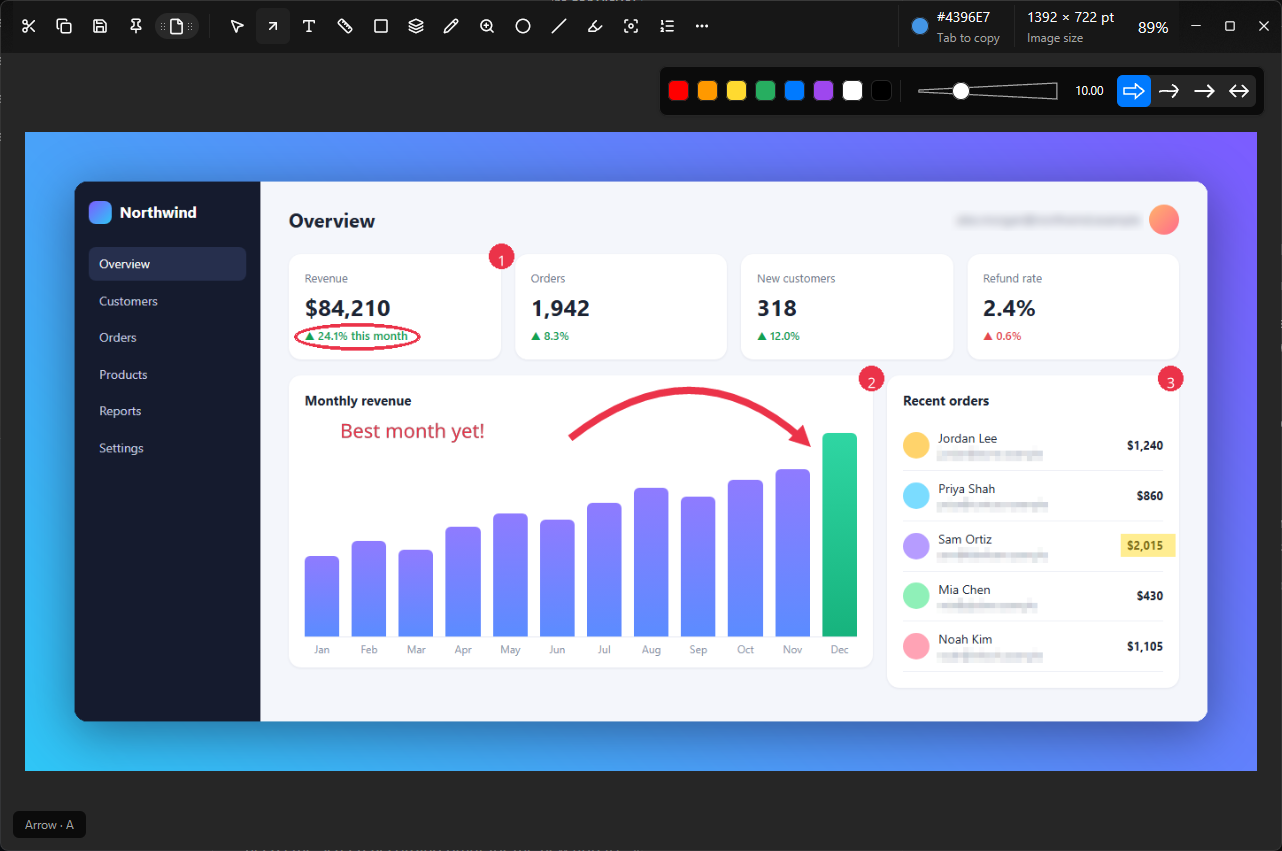
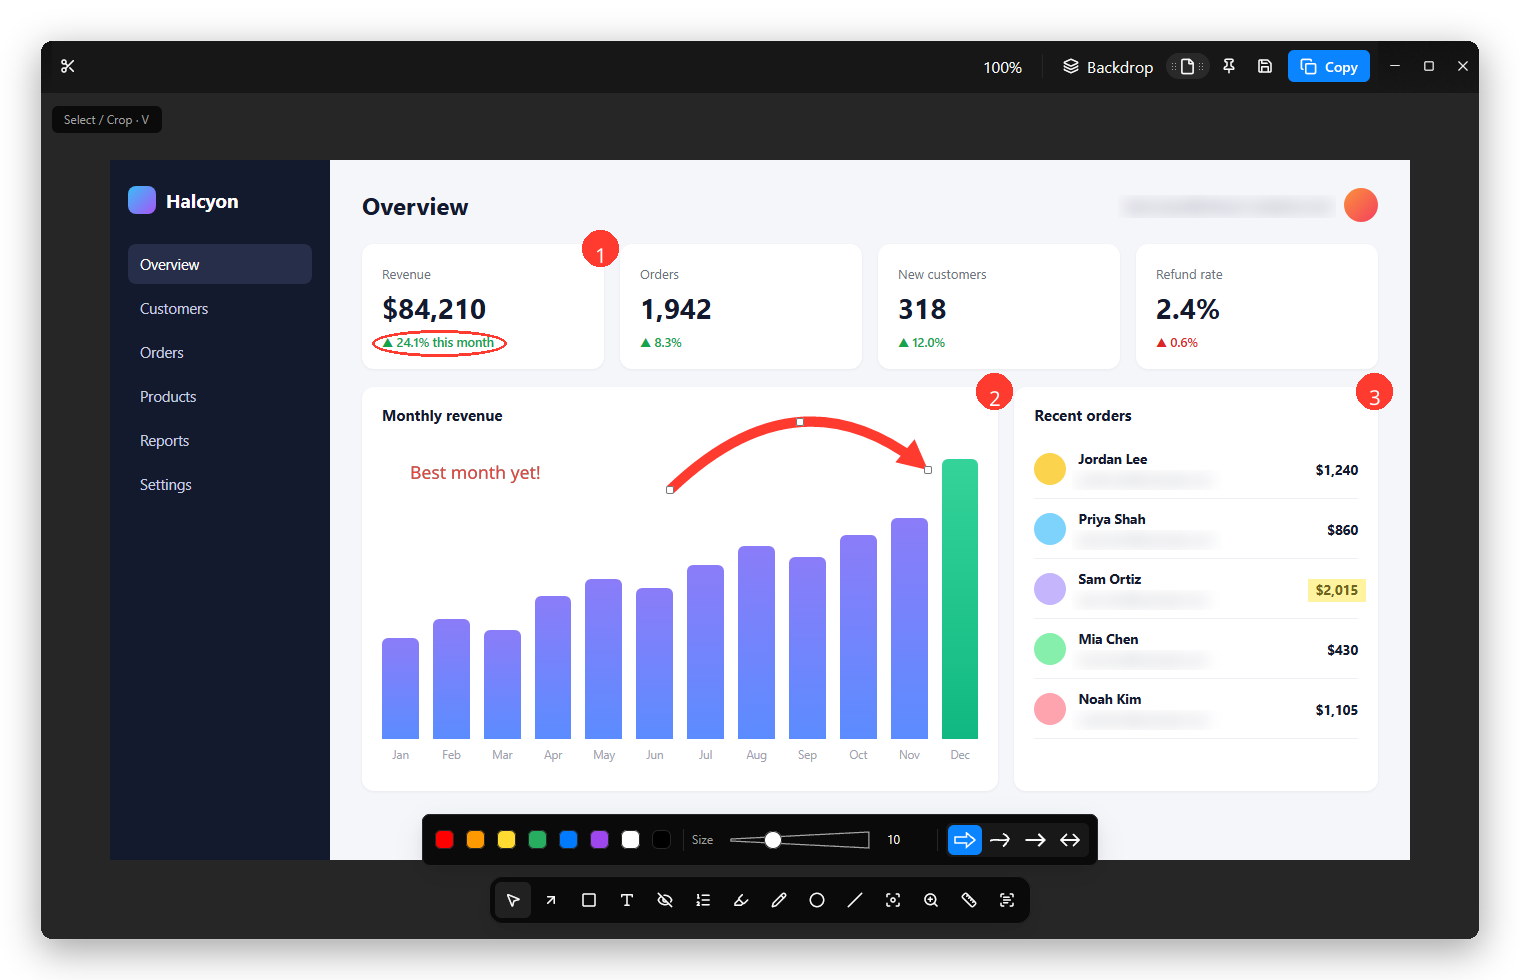
docs: make the README a home page with downloads and new screenshots (#4)
* docs: rewrite the README as the Sniplet home page with new screenshots

* docs: say when shortcuts work and how to open Sniplet before the first capture

---------

diff --git a/README.md b/README.md
@@ -1,136 +1,162 @@
 <div align="center">
 
-<img src="assets/icons/sniplet-128.png" width="96" alt="Sniplet icon">
+<img src="assets/icons/sniplet-256.png" width="112" alt="Sniplet icon">
 
 # Sniplet
 
-**Capture. Annotate. Copy.**
+### Capture it. Mark it up. Share it.
 
-A fast, native screenshot tool for Windows, macOS, and Linux, written in Rust.
-
-[![CI](https://github.com/m4tta/sniplet/actions/workflows/ci.yml/badge.svg)](https://github.com/m4tta/sniplet/actions/workflows/ci.yml)
-[![License](https://img.shields.io/badge/license-Apache--2.0-blue.svg)](LICENSE)
-![Platforms](https://img.shields.io/badge/platforms-Windows%20%7C%20macOS%20%7C%20Linux-8a63ff)
-![Built with Rust](https://img.shields.io/badge/built%20with-Rust-dea584?logo=rust)
+A fast, native screenshot tool for Windows, macOS, and Linux.<br>
+Free, open source, and written in Rust.
 
 <br>
 
-<img src="docs/screenshots/editor.png" width="860" alt="The Sniplet editor with an annotated dashboard screenshot and the arrow style palette open">
+[<img src="https://img.shields.io/badge/Download_for_Windows-0a84ff?style=for-the-badge" height="34" alt="Download for Windows">](https://github.com/m4tta/sniplet/releases/latest)&nbsp;
+[<img src="https://img.shields.io/badge/Download_for_macOS-0a84ff?style=for-the-badge" height="34" alt="Download for macOS">](https://github.com/m4tta/sniplet/releases/latest)&nbsp;
+[<img src="https://img.shields.io/badge/Download_for_Linux-0a84ff?style=for-the-badge" height="34" alt="Download for Linux">](https://github.com/m4tta/sniplet/releases/latest)
+
+<br>
+
+<img src="docs/screenshots/editor.png" alt="The Sniplet editor: a dashboard screenshot with a curved arrow, numbered steps, a highlight, and blurred emails. The arrow is selected and its color, size, and style controls float above the tool dock.">
 
 </div>
 
 <br>
 
-## What it does
+<table>
+<tr>
+<td width="33%" valign="top">
 
-Press a shortcut and drag across your screen. The capture opens in the editor,
-where you can mark it up and then copy, save, pin, or upload it.
+**⚡ Instant**<br>
+One shortcut freezes the screen. Drag across it, and the editor opens with your capture.
 
-| Feature        | What you can do                                                                       |
-| -------------- | ------------------------------------------------------------------------------------- |
-| **Capture**    | Area, full screen, a single window, scrolling pages, or the last area again           |
-| **Annotate**   | Arrows, text, shapes, numbered steps, highlights, spotlight, magnifier, and freehand  |
-| **Hide**       | Blur or pixelate emails, names, and anything else you don't want to share             |
-| **Measure**    | Hold <kbd>1</kbd> or <kbd>2</kbd> to measure widths and heights in pixels or points   |
-| **Recognize**  | Copy text out of an image with OCR, or decode a QR code                               |
-| **Share**      | Copy to the clipboard, save as PNG, JPEG, or WebP, drag into another app, or upload   |
-| **Keep**       | Save an editable `.sniplet` project and continue editing it later                     |
-| **Update**     | Choose Stable or Nightly, download verified updates, and choose when to restart      |
+</td>
+<td width="33%" valign="top">
 
-## How it works
+**✏ Always editable**<br>
+Every arrow, label, and blur stays live. Move it, restyle it, or undo it at any time.
 
-<div align="center">
-<img src="docs/screenshots/export.png" width="760" alt="An exported screenshot with a gradient backdrop, arrows, numbered steps, and blurred emails">
+</td>
+<td width="33%" valign="top">
+
+**🔒 Keep it private**<br>
+Blur, pixelate, or redact emails and names before you share.
+
+</td>
+</tr>
+</table>
+
+## Mark it up in seconds
+
+<img src="docs/screenshots/hide.png" alt="The Hide tool with Blur, Pixelate, Erase, and Redact styles and a strength slider. Customer emails in the screenshot are blurred.">
+
+Every tool lives in one dock at the bottom of the window. Pick one with a click
+or a key, and its options float right above it.
+
+| | |
+| --- | --- |
+| **Arrows and shapes** | Curved arrows, lines, rectangles, ovals, and freehand |
+| **Text and steps** | Labels and numbered counters for step-by-step guides |
+| **Focus** | Highlighter, spotlight, and a magnifier lens |
+| **Hide** | Blur, pixelate, erase, or redact anything private |
+| **Measure** | Hold <kbd>1</kbd> or <kbd>2</kbd> to measure widths and heights in pixels |
+| **Read** | Drag the OCR tool over text or a QR code to copy what it says |
+
+## Make it look good
+
+<img src="docs/screenshots/export.png" alt="An exported screenshot on a purple gradient backdrop with rounded corners and a soft shadow">
+
+Add a gradient backdrop with padding, rounded corners, and a shadow. Then copy
+it, save it as PNG, JPEG, or WebP, drag it straight into another app, pin it on
+top of your screen, or upload it.
+
+## Everything one click away
+
+<table>
+<tr>
+<td width="45%" valign="top">
+<img src="docs/screenshots/menu.png" alt="The Sniplet menu with Screen, Area, Scrolling, and Text and QR capture, plus image tools">
+</td>
+<td valign="top">
+
+Capture the **whole screen**, an **area**, a **window**, or a **scrolling page**.
+Repeat your last area, read text or a QR code from anywhere on screen, or paste
+an image from the clipboard.
+
+Sniplet waits in the system tray (or the macOS menu bar) and can start with your
+computer, so a capture is always one shortcut away.
+
+</td>
+</tr>
+</table>
+
+## Get started
+
+1. **Download** the latest release for your system:
+
+   | System | File |
+   | --- | --- |
+   | Windows | `Sniplet-…-windows-x64.zip` |
+   | macOS, Apple silicon | `Sniplet-…-macos-arm64.dmg` |
+   | macOS, Intel | `Sniplet-…-macos-x64.dmg` |
+   | Linux | `Sniplet-…-linux-x64.tar.gz` |
+
+2. **Open Sniplet.** Unzip it, or drag it to Applications on a Mac. It waits in
+   the system tray or menu bar.
+3. **Capture.** Press <kbd>Ctrl/Cmd</kbd> <kbd>Shift</kbd> <kbd>2</kbd> and drag across the screen.
+4. **Share.** Mark it up, then press <kbd>Ctrl/Cmd</kbd> <kbd>C</kbd> to copy.
+
+On Linux, global shortcuts need an X11 session. On Wayland, start a capture from
+the Sniplet menu.
+
+<details>
+<summary><b>All shortcuts</b></summary>
+
 <br>
-<sub>The exported image: a gradient backdrop, an arrow, numbered steps, a highlight, and pixelated emails.</sub>
-</div>
+
+| Action | Shortcut |
+| --- | --- |
+| Capture an area | <kbd>Ctrl/Cmd</kbd> <kbd>Shift</kbd> <kbd>2</kbd> |
+| Capture the screen | <kbd>Ctrl/Cmd</kbd> <kbd>Shift</kbd> <kbd>1</kbd> |
+| Capture a window | <kbd>Ctrl/Cmd</kbd> <kbd>Shift</kbd> <kbd>3</kbd> |
+| Scrolling capture | <kbd>Ctrl/Cmd</kbd> <kbd>Shift</kbd> <kbd>4</kbd> |
+| Repeat the last area | <kbd>Ctrl/Cmd</kbd> <kbd>Shift</kbd> <kbd>5</kbd> |
+| Capture the active window | <kbd>Ctrl/Cmd</kbd> <kbd>Shift</kbd> <kbd>6</kbd> |
+| Read text or a QR code | <kbd>Ctrl/Cmd</kbd> <kbd>Shift</kbd> <kbd>7</kbd> |
+| Reopen the editor | <kbd>Ctrl/Cmd</kbd> <kbd>Shift</kbd> <kbd>8</kbd> |
+
+In the editor: <kbd>V</kbd> select, <kbd>A</kbd> arrow, <kbd>R</kbd> rectangle,
+<kbd>T</kbd> text, <kbd>B</kbd> hide, <kbd>C</kbd> counter, <kbd>H</kbd> highlight.
+Change any capture shortcut in **Settings → Hotkeys**.
+
+</details>
+
+<details>
+<summary><b>Build from source</b></summary>
 
 <br>
 
-1. **Capture.** Sniplet runs in the system tray (or the macOS menu bar) and
-   listens for global shortcuts. Capturing freezes the screen, so you can choose
-   exactly what you want before anything is saved.
-2. **Edit.** Every annotation stays editable. Move, resize, restyle, or delete it
-   at any point, and undo or redo as many steps as you like. The original pixels
-   are never changed until you export.
-3. **Share.** Sniplet renders your edits into a single image. Use the whole
-   canvas or just a selection, and optionally add a padded backdrop with a shadow.
-
-### Default shortcuts
-
-| Action                      | Shortcut                                      |
-| --------------------------- | --------------------------------------------- |
-| Capture an area             | <kbd>Ctrl/Cmd</kbd> + <kbd>Shift</kbd> + <kbd>2</kbd> |
-| Capture the screen          | <kbd>Ctrl/Cmd</kbd> + <kbd>Shift</kbd> + <kbd>1</kbd> |
-| Capture a window            | <kbd>Ctrl/Cmd</kbd> + <kbd>Shift</kbd> + <kbd>3</kbd> |
-| Scrolling capture           | <kbd>Ctrl/Cmd</kbd> + <kbd>Shift</kbd> + <kbd>4</kbd> |
-| Recognize text or a QR code | <kbd>Ctrl/Cmd</kbd> + <kbd>Shift</kbd> + <kbd>7</kbd> |
-| Reopen the editor           | <kbd>Ctrl/Cmd</kbd> + <kbd>Shift</kbd> + <kbd>8</kbd> |
-
-You can change any of these in **Settings → Hotkeys**.
-
-Text/QR capture opens an editable text preview over the screenshot. Use the
-editor's **OCR** tool to drag over text or a QR code in any opened image.
-
-<div align="center">
-<img src="docs/screenshots/settings.png" width="560" alt="The Sniplet settings window showing appearance and window screenshot background options">
-</div>
-
-### Under the hood
-
-Sniplet is a Cargo workspace with three crates:
-
-- **`sniplet-core`** holds the document model, annotations, measurement, and
-  the renderer. It has no UI or OS dependencies, so it is fully unit-tested.
-- **`sniplet-platform`** handles screen capture, the clipboard, OCR, QR
-  decoding, settings, and uploads for each operating system.
-- **`sniplet-app`** is the desktop app, built with
-  [GPUI](https://github.com/zed-industries/zed/tree/main/crates/gpui) (the UI
-  framework behind the Zed editor) and
-  [gpui-kit](https://github.com/longbridge/gpui-kit).
-
-## Run it locally
-
-Install [stable Rust](https://rustup.rs), then clone and run:
+Install [stable Rust](https://rustup.rs), then:
 
 ```sh
 git clone https://github.com/m4tta/sniplet.git
 cd sniplet
-cargo run --release -p sniplet-app
-```
-
-To try the editor without capturing anything, open the built-in sample or any
-image:
-
-```sh
 cargo run --release -p sniplet-app -- --demo
-cargo run --release -p sniplet-app -- path/to/image.png
 ```
 
-Each platform also needs some native tools:
+See the [guide](docs/guide.md#native-prerequisites) for the native tools each
+platform needs.
 
-- **Windows:** Visual Studio 2022 Build Tools with *Desktop development with C++*.
-- **macOS:** Xcode with the Metal toolchain. Grant Screen Recording permission
-  when asked.
-- **Linux:** a Vulkan-capable GPU, plus the development packages listed in the
-  [guide](docs/guide.md#native-prerequisites).
-
-Use `--release` for everyday use. Debug builds work, but they render large
-images noticeably slower.
+</details>
 
 ## Learn more
 
-- [User and developer guide](docs/guide.md): every tool and setting, uploads,
-  packaging, and verification
-- [Feature checklist](docs/parity.md): what's implemented and what's still open
-- [Platform testing](docs/platform-testing.md): results from real machines
-- [Releases](docs/releases.md): how nightly and stable builds are made
+[User and developer guide](docs/guide.md) ·
+[Feature checklist](docs/parity.md) ·
+[Releases](docs/releases.md) ·
+[Platform testing](docs/platform-testing.md)
 
 Sniplet is in active development. Some features are still incomplete, and not
 every platform has been fully tested yet.
 
-## License
-
-[Apache 2.0](LICENSE). The bundled Noto Sans font is under the
-[SIL Open Font License](assets/fonts/OFL.txt), and the scissors icon comes from
-[Lucide](assets/icons/LICENSE-LUCIDE).
+<sub>Apache 2.0. Noto Sans is under the [SIL Open Font License](assets/fonts/OFL.txt). Icons from [Lucide](assets/icons/LICENSE-LUCIDE).</sub>
